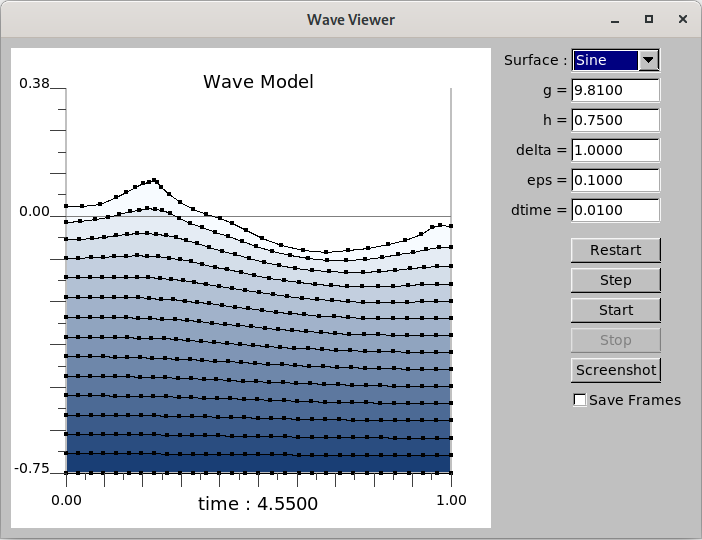
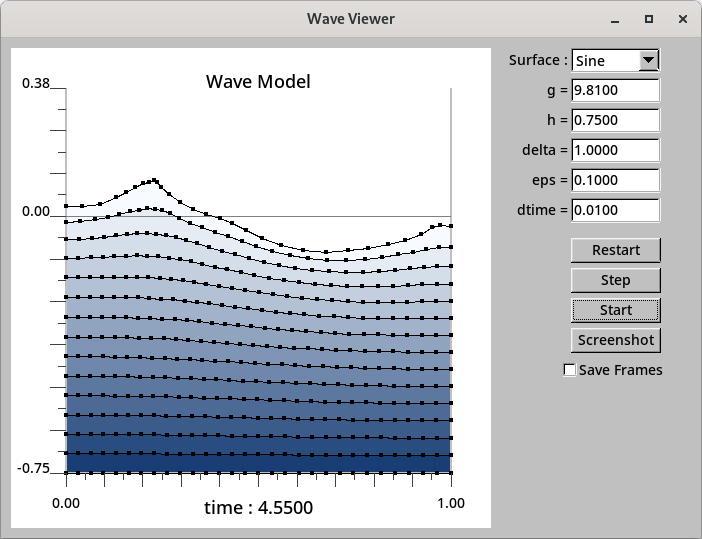
[WaveModel] Fix calculation of initial conditions
* Fix coefficients for Simpson's method integration
* Use less iterations for calculating initial boundary conditions
* Merge start-stop button in the UI
* Update program screenshot

diff --git a/src/WaveView/WaveWindow.cpp b/src/WaveView/WaveWindow.cpp
@@ -28,20 +28,19 @@ WaveWindow::WaveWindow(int W, int H, const char* l)
 
     restart_btn = new Fl_Button(570, 200, 90, 25, "Restart");
     step_btn = new Fl_Button(570, 230, 90, 25, "Step");
-    start_btn = new Fl_Button(570, 260, 90, 25, "Start");
-    stop_btn = new Fl_Button(570, 290, 90, 25, "Stop");
+    start_stop_btn = new Fl_Button(570, 260, 90, 25, "Start");
     restart_btn->callback(restart_cb, this);
     step_btn->callback(step_cb, this);
-    start_btn->callback(start_cb, this);
-    stop_btn->callback(stop_cb, this);
+    start_stop_btn->callback(start_stop_cb, this);
 
-    screenshot_btn = new Fl_Button(570, 320, 90, 25, "Screenshot");
+    Fl::focus(start_stop_btn);
+
+    screenshot_btn = new Fl_Button(570, 290, 90, 25, "Screenshot");
     screenshot_btn->callback(screenshot_cb, this);
 
-    auto save_frames_btn = new Fl_Check_Button(570, 350, 90, 25, "Save Frames");
+    auto save_frames_btn = new Fl_Check_Button(560, 320, 90, 25, "Save Frames");
     save_frames_btn->callback(save_frames_cb, this);
 
-    stop_btn->deactivate();
     save_frames_btn->value(saving_frames);
 
     this->resizable(ww);
@@ -133,44 +132,34 @@ void WaveWindow::step() {
     }
 }
 
-void WaveWindow::start_cb(Fl_Widget* /*w*/, void* v) {
+void WaveWindow::start_stop_cb(Fl_Widget* /*w*/, void* v) {
     auto wnd = reinterpret_cast<WaveWindow*>(v);
-    wnd->start();
+    wnd->start_stop();
 }
 
-void WaveWindow::start() {
+void WaveWindow::start_stop() {
     if (animating) {
-        return;
+        animating = false;
+
+        restart_btn->activate();
+        step_btn->activate();
+        screenshot_btn->activate();
+
+        start_stop_btn->label("Start");
+
+        Fl::remove_timeout(timer_cb);
     }
-    animating = true;
+    else {
+        animating = true;
 
-    restart_btn->deactivate();
-    step_btn->deactivate();
-    start_btn->deactivate();
-    stop_btn->activate();
-    screenshot_btn->deactivate();
+        restart_btn->deactivate();
+        step_btn->deactivate();
+        screenshot_btn->deactivate();
 
-    Fl::add_timeout(TimerInterval, timer_cb, this);
-}
+        start_stop_btn->label("Stop");
 
-void WaveWindow::stop_cb(Fl_Widget* /*w*/, void* v) {
-    auto wnd = reinterpret_cast<WaveWindow*>(v);
-    wnd->stop();
-}
-
-void WaveWindow::stop() {
-    if (!animating) {
-        return;
+        Fl::add_timeout(TimerInterval, timer_cb, this);
     }
-    animating = false;
-
-    restart_btn->activate();
-    step_btn->activate();
-    start_btn->activate();
-    stop_btn->deactivate();
-    screenshot_btn->activate();
-
-    Fl::remove_timeout(timer_cb);
 }
 
 void WaveWindow::timer_cb(void* v) {

diff --git a/src/WaveView/WaveModel.cpp b/src/WaveView/WaveModel.cpp
@@ -27,28 +27,20 @@ WaveModel::WaveModel() {
 }
 
 double WaveModel::fourier_n(double d, int n) {
-    constexpr int MaxIter = 50000;
-    std::vector<double> fi(MaxIter + 1);
+    constexpr int MaxIter = 1000;
 
     double minx = 0.0;
     double maxx = d;
     double dx = (maxx - minx) / double(MaxIter);
+    double s = 0.0;
     for (int i = 0; i < MaxIter + 1; i++) {
         double xi = minx + dx * i;
-        fi[i] = surface_func(xi, delta, epsilon) * cos(kn[n - 1] * xi);
+        double f = surface_func(xi, delta, epsilon) * cos(kn[n - 1] * xi);
+        int k = (i == 0 || i == MaxIter) ? 1 : 2 + (i % 2) * 2;
+        s += f * static_cast<double>(k);
     }
 
-    int k = MaxIter >> 1;
-    double s1 = fi[0] + fi[MaxIter];
-    double s2{ 0.0 }, s4{ 0.0 };
-    for (int i = 2; i <= k; i++) {
-        s2 += fi[(i - 1) * 2 - 1];
-    }
-    for (int i = 1; i <= k; i++) {
-        s4 += fi[(i - 1) * 2];
-    }
-
-    double s = (s1 + 2.0 * s2 + 4.0 * s4) * dx / 3.0;
+    s = s * dx / 3.0;
 
     return 2.0 * s / d;
 }

diff --git a/src/WaveView/WaveWindow.h b/src/WaveView/WaveWindow.h
@@ -16,11 +16,8 @@ private:
     static void step_cb(Fl_Widget* w, void* v);
     void step();
 
-    static void start_cb(Fl_Widget* w, void* v);
-    void start();
-    
-    static void stop_cb(Fl_Widget* w, void* v);
-    void stop();
+    static void start_stop_cb(Fl_Widget* w, void* v);
+    void start_stop();
 
     static void timer_cb(void* v);
 
@@ -38,10 +35,10 @@ private:
     Fl_Input* g_in{ nullptr }, * h_in{ nullptr }, * delta_in{ nullptr },
         * eps_in{ nullptr }, * dtime_in{ nullptr };
     Fl_Button* restart_btn{ nullptr }, * step_btn{ nullptr },
-        * start_btn{ nullptr }, * stop_btn{ nullptr };
+        * start_stop_btn{ nullptr };
     Fl_Button *screenshot_btn{ nullptr };
 
     bool animating{ false };
     int frame_counter{ 0 };
-    bool saving_frames{ true };
+    bool saving_frames{ false };
 };
